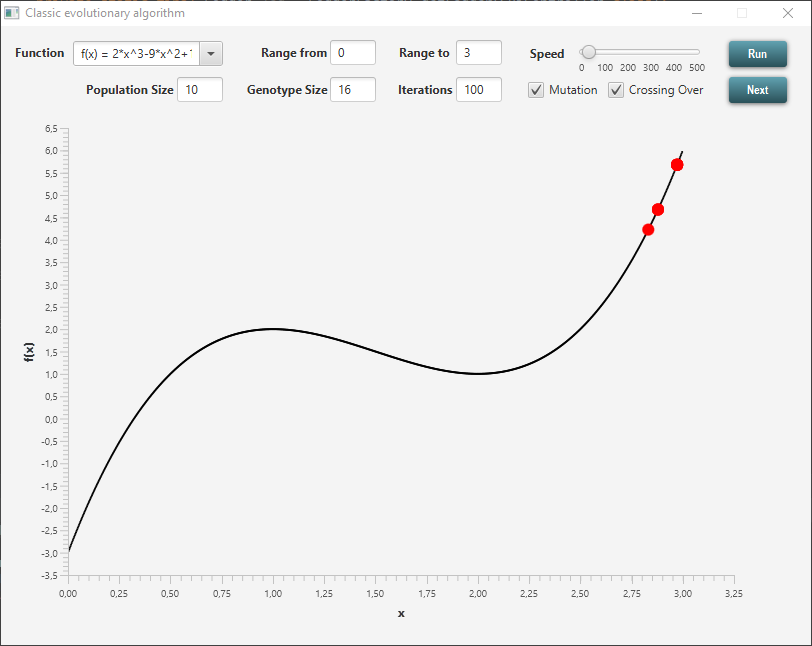
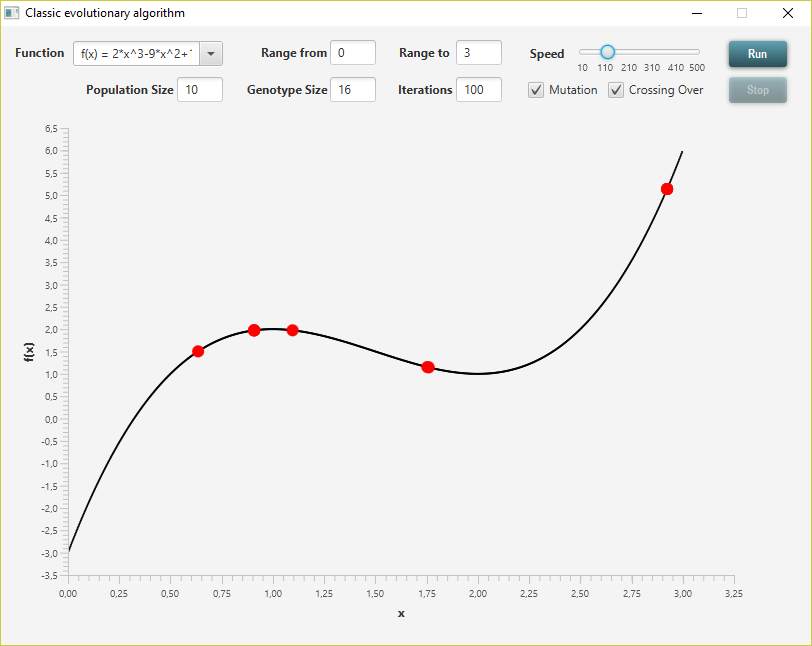
added semaphore to synchronize threads

diff --git a/src/main/java/com/wboguta/GuiController.java b/src/main/java/com/wboguta/GuiController.java
@@ -1,6 +1,8 @@
 package com.wboguta;
 
 import javafx.application.Platform;
+import javafx.beans.value.ChangeListener;
+import javafx.beans.value.ObservableValue;
 import javafx.event.ActionEvent;
 import javafx.fxml.FXML;
 import javafx.scene.chart.ScatterChart;
@@ -13,13 +15,16 @@ import org.mariuszgromada.math.mxparser.mXparser;
 import org.slf4j.Logger;
 import org.slf4j.LoggerFactory;
 
+import java.util.concurrent.Semaphore;
+
 import static java.lang.System.out;
 
-public class GuiController
-{
+public class GuiController {
+
     private static final Logger log = LoggerFactory.getLogger(GuiController.class);
 
     @FXML private Button buttonRun;
+    @FXML private Button buttonStop;
     @FXML private ComboBox comboBoxFunction;
     @FXML private ScatterChart scatterChart;
     @FXML private TextField textFieldPopulationSize;
@@ -31,9 +36,14 @@ public class GuiController
     @FXML private CheckBox checkBoxMutation;
     @FXML private CheckBox checkBoxCrossingOver;
 
+    private Semaphore semaphore;
+    private boolean isStopped;
+
     @FXML
     public void initialize() {
         comboBoxFunction.getSelectionModel().selectFirst();
+        isStopped = true;
+        semaphore = new Semaphore(1); // Only one thread can access
     }
 
 
@@ -62,9 +72,24 @@ public class GuiController
 
 
     @FXML
+    void buttonStopClicked(ActionEvent event) {
+        isStopped = true;
+    }
+
+
+    @FXML
     void buttonRunClicked(ActionEvent event) {
 
         buttonRun.setDisable(true);
+        buttonStop.setDisable(false);
+        isStopped = false;
+        comboBoxFunction.setDisable(true);
+        textFieldGenotypeSize.setDisable(true);
+        textFieldGenotypeSize.setDisable(true);
+        textFieldIterations.setDisable(true);
+        textFieldRangeFrom.setDisable(true);
+        textFieldRangeTo.setDisable(true);
+        textFieldPopulationSize.setDisable(true);
 
         // parse function
         final Function function = new Function((String)comboBoxFunction.getValue());
@@ -78,6 +103,14 @@ public class GuiController
             alert.showAndWait();
 
             buttonRun.setDisable(false);
+            buttonRun.setDisable(false);
+            comboBoxFunction.setDisable(false);
+            textFieldGenotypeSize.setDisable(false);
+            textFieldGenotypeSize.setDisable(false);
+            textFieldIterations.setDisable(false);
+            textFieldRangeFrom.setDisable(false);
+            textFieldRangeTo.setDisable(false);
+            textFieldPopulationSize.setDisable(false);
             return;
         }
 
@@ -101,18 +134,29 @@ public class GuiController
         new Thread() {
 
             private void plotIndividuals(final int i) throws InterruptedException {
+
                 Platform.runLater(new Runnable() {
                     public void run() {
+
+                        try {
+                            semaphore.acquire(); // Acquire access
+                        } catch (InterruptedException e) {
+                            e.printStackTrace();
+                        }
+
                         series.getData().clear();
                         scatterChart.getData().removeAll(series);
                         while (population.isNextIndividualXY()) {
                             double[] xy = population.getNextIndividualXY();
                             series.getData().add(new XYChart.Data(xy[0], xy[1]));
                         }
+
                         scatterChart.getData().addAll(series);
                         textFieldIterations.setText(String.valueOf(i));
+                        semaphore.release(); // Release lock
                     }
                 });
+
                 Thread.sleep(((Double) sliderSpeed.getValue()).intValue()/2);
             }
 
@@ -128,6 +172,7 @@ public class GuiController
                         // put population on a chart
                         plotIndividuals(i);
 
+                        semaphore.acquire(); // Acquire access
                         if (checkBoxMutation.isSelected()) {
                             population.mutation();
                         }
@@ -138,13 +183,33 @@ public class GuiController
 
                         population.calculateAdaptation(function);
                         population.calculateProbs();
+                        semaphore.release(); // Release lock
 
                         plotIndividuals(i);
 
+                        semaphore.acquire(); // Acquire access
                         population.pickNewPopulation();
+                        semaphore.release(); // Release lock
+
+                        if(isStopped == true) {
+                            break;
+                        }
                     }
 
-                    buttonRun.setDisable(false);
+                    Platform.runLater(new Runnable() {
+                        public void run() {
+                            buttonRun.setDisable(false);
+                            buttonStop.setDisable(true);
+                            comboBoxFunction.setDisable(false);
+                            textFieldGenotypeSize.setDisable(false);
+                            textFieldGenotypeSize.setDisable(false);
+                            textFieldIterations.setDisable(false);
+                            textFieldIterations.setText(String.valueOf(iterations));
+                            textFieldRangeFrom.setDisable(false);
+                            textFieldRangeTo.setDisable(false);
+                            textFieldPopulationSize.setDisable(false);
+                        }
+                    });
 
                 } catch (Exception e) {
                     e.printStackTrace();
